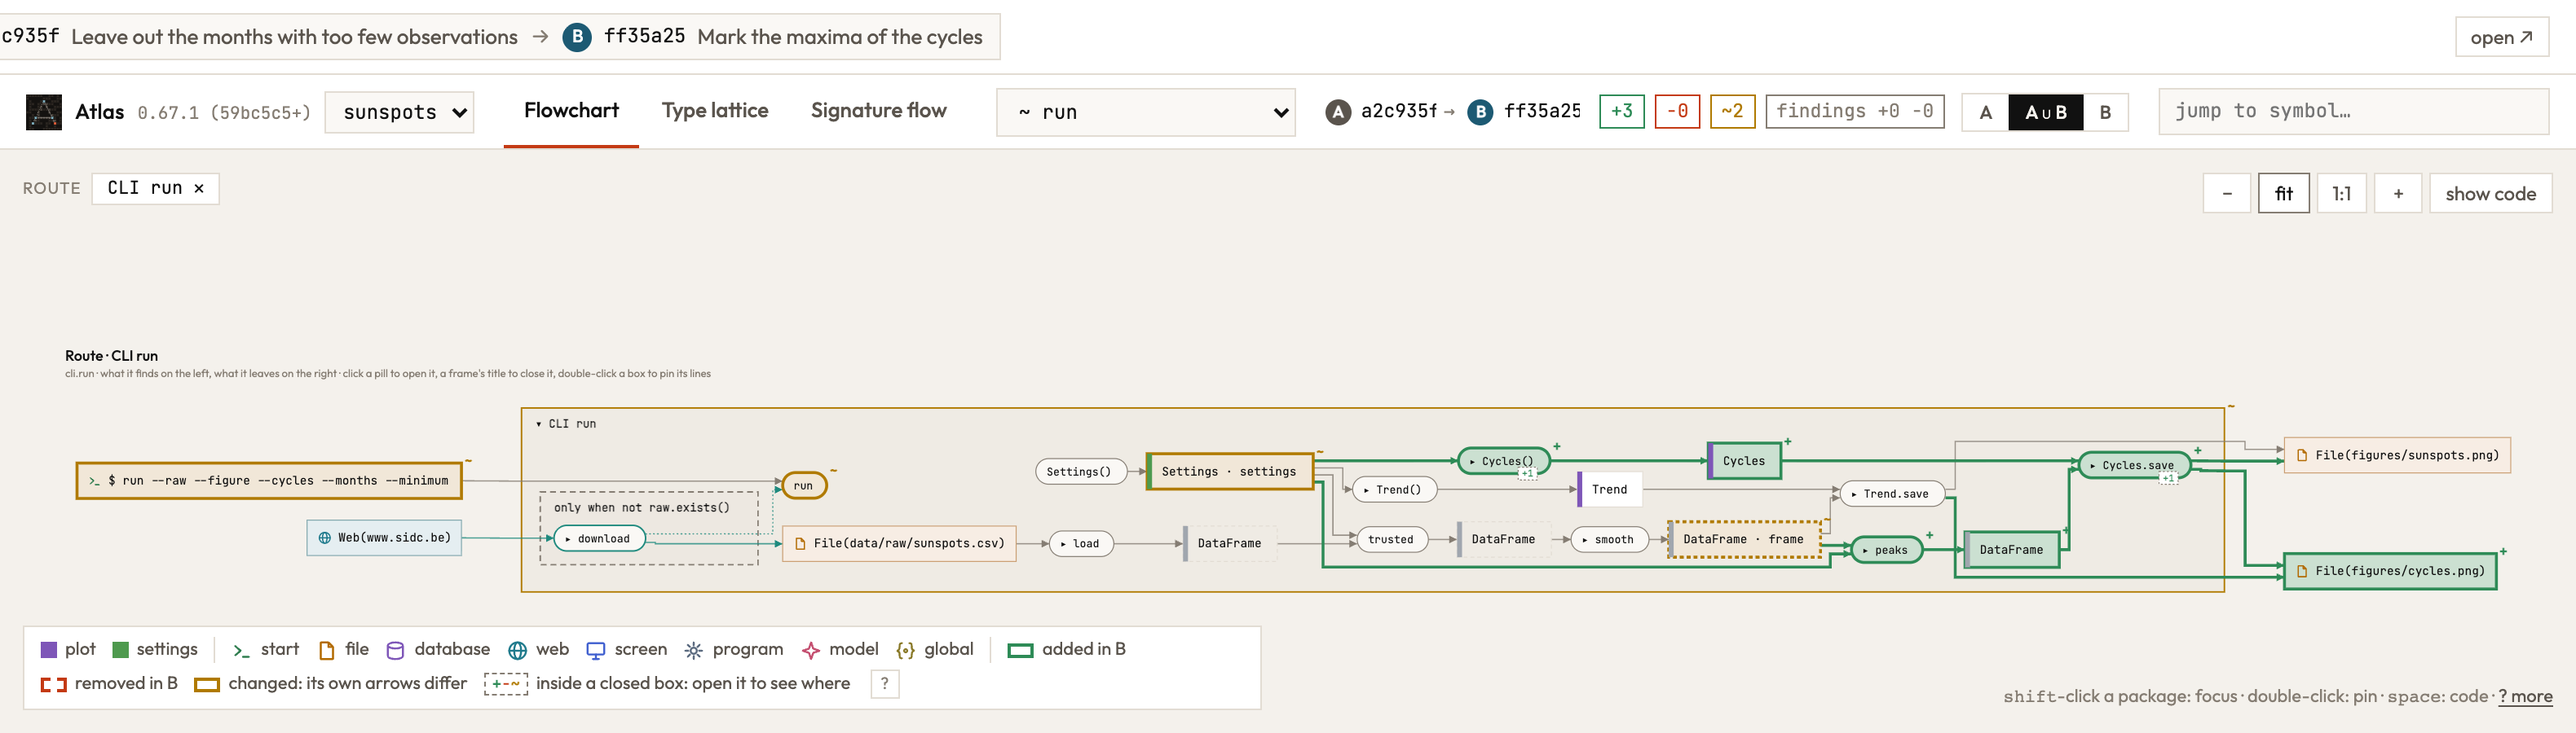
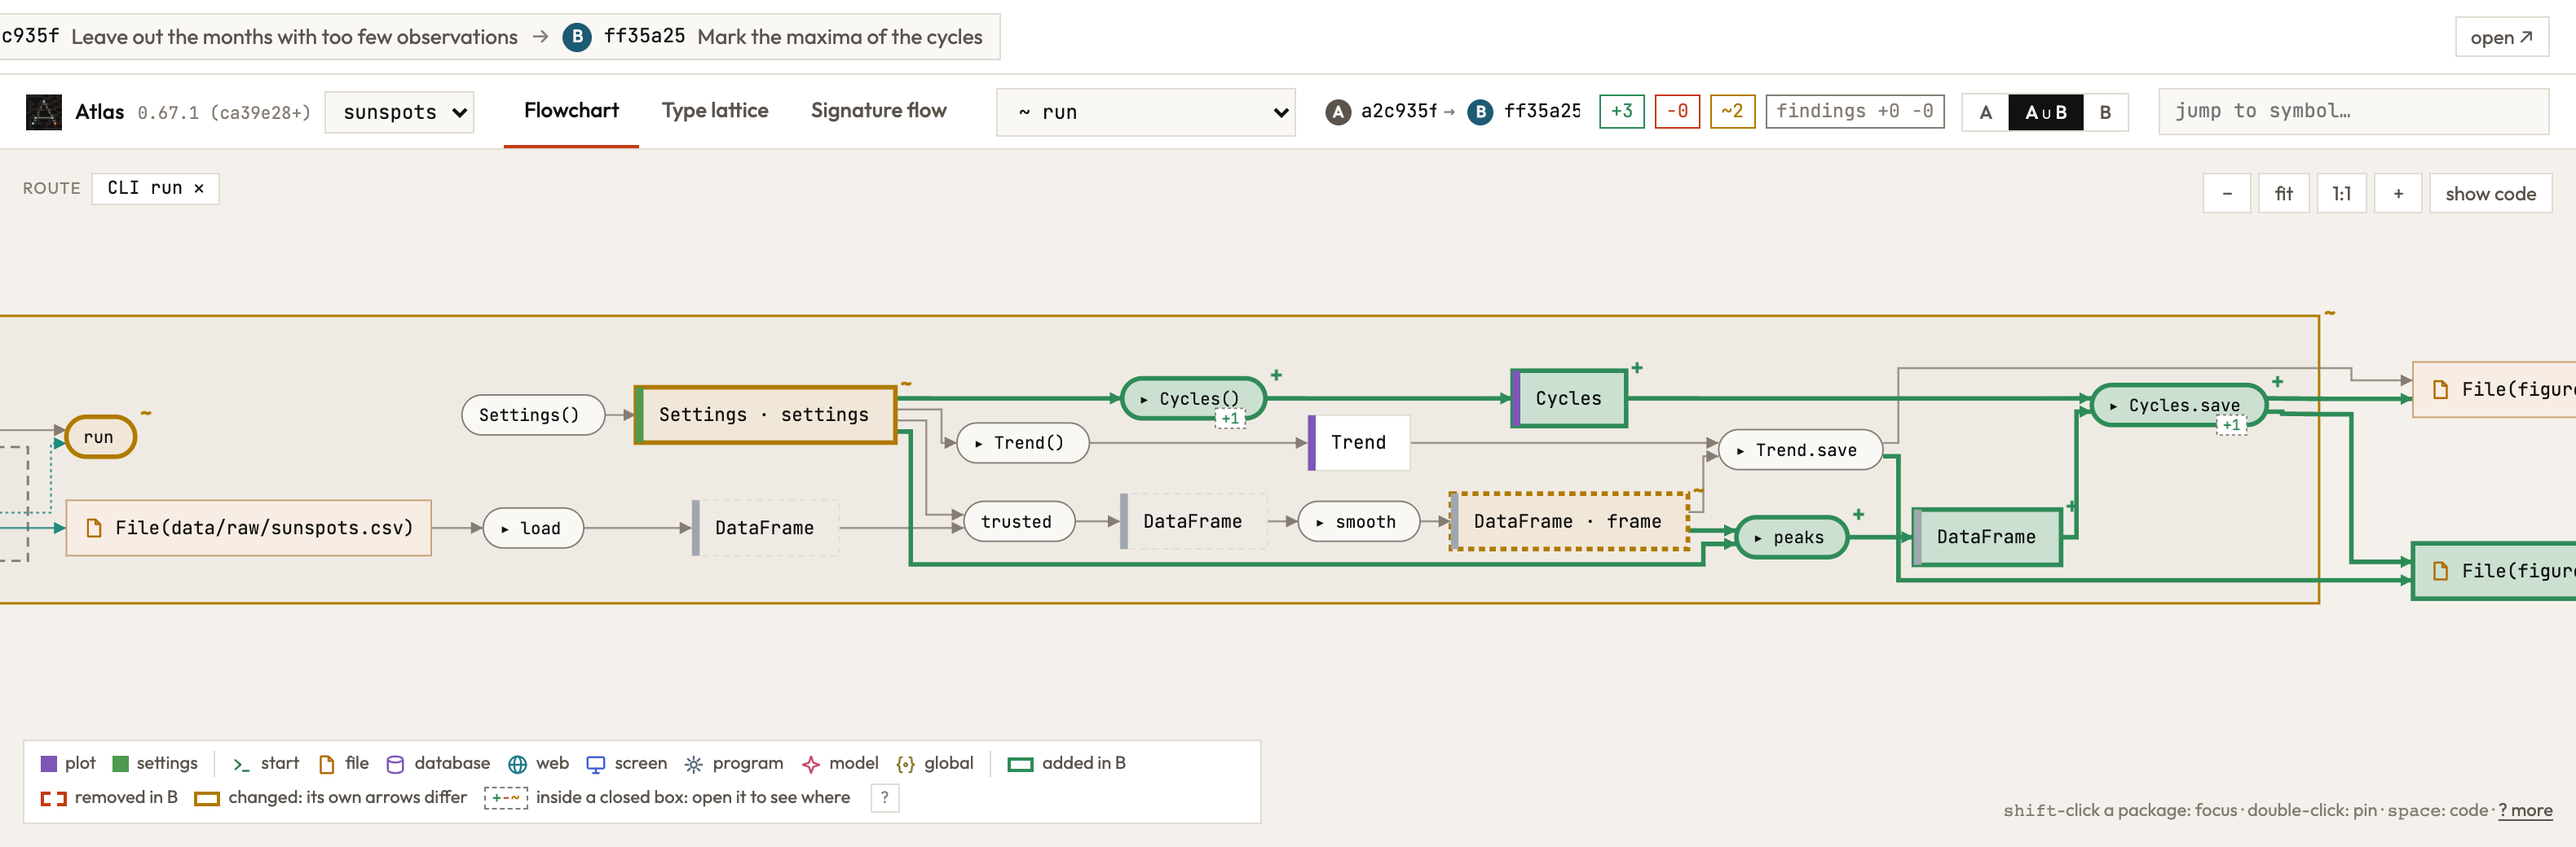
Pages: the vision is a sketch Atlas reads, the prophecy the same sketch in your files; before and after the build; only the typed picture is a demo; the history zoomed to the new path (#35)

diff --git a/docs/index.html b/docs/index.html
@@ -151,14 +151,18 @@ b.g,b.b,b.p{font-weight:600}
 .key .sw.add{border-color:var(--add);background:color-mix(in oklab,var(--add) 26%,#fff)}
 .key .sw.del{border-color:#C0361C;background:color-mix(in oklab,#C0361C 20%,#fff)}
 .key .sw.chg{border-color:#B8860B;background:color-mix(in oklab,#B8860B 18%,#fff)}
-figure.code{flex:1 1 420px;max-width:100%}
+figure a.still{pointer-events:none}
+figcaption .demo{display:flex;align-items:baseline;gap:14px;flex-wrap:wrap;justify-content:flex-end}
+figure a.try{display:inline;padding:0;font-size:14px;font-weight:500;text-decoration-color:var(--good);text-underline-offset:3px}
+figure a.try:hover{color:var(--good)}
+figure.code{flex:1 1 440px;min-width:0;max-width:100%}
 figure.code figcaption{font-size:14px;color:var(--ink-2)}
 figure.code pre{border:0;font-size:12.5px;line-height:1.6;white-space:pre;overflow-x:auto}
 figure.code pre .m{color:var(--proph);font-weight:600}
 figure.code a{display:inline;padding:0;color:inherit;text-decoration-color:var(--accent);text-underline-offset:3px}
 figure.term{background:#1d1b19;border-color:#1d1b19}
 figure.term figcaption{color:#cfc8bd;border-bottom-color:#3a3631}
-figure.term pre{background:transparent;color:#ece6dc}
+figure.term pre{background:transparent;color:#ece6dc;white-space:pre-wrap;overflow-wrap:anywhere}
 figure.term pre .m{color:#b9b0ff}
 section{margin-bottom:104px}
 @media (max-width:760px){.top nav{display:none}.hero{padding-top:36px}.chap{margin-bottom:72px}}
@@ -204,14 +208,14 @@ section{margin-bottom:104px}
   <div class="pair">
     <figure class="sloppy">
       <figcaption><b>A sloppy script</b><span class="tag">sloppy</span></figcaption>
-      <a href="showcase/python-sloppy.html"><img src="img/showcase/python-sloppy.png" style="--w:1321" alt="Atlas's picture of the sloppy script: every step reads and changes one global, Global(sunspots.df), and two of them pick their own files"></a>
+      <a class="still"><img src="img/showcase/python-sloppy.png" style="--w:1321" alt="Atlas's picture of the sloppy script: every step reads and changes one global, Global(sunspots.df), and two of them pick their own files"></a>
     </figure>
     <figure class="elegant">
-      <figcaption><b>Typed and elegant</b><span class="tag">elegant</span></figcaption>
+      <figcaption><b>Typed and elegant</b><span class="demo"><a class="try" href="showcase/python-clean.html">Open the live picture and click around &rarr;</a><span class="tag">elegant</span></span></figcaption>
       <a href="showcase/python-clean.html"><img src="img/showcase/python-clean.png" style="--w:1841" alt="Atlas's picture of the typed pipeline: download runs only when no raw CSV is kept, the CSV stands between download and load, a DataFrame passes from load to smooth to Trend.save, and the command names every file"></a>
     </figure>
   </div>
-  <p class="explain">Both reach the same places: the web, the raw CSV, the figure. Inside they part. In the sloppy script every step reads and changes one global, <code>Global(sunspots.df)</code>, and nothing is handed from step to step. In the typed one the CSV stands between <code>download</code> and <code>load</code>, a <code>DataFrame</code> goes from step to step, and the command names every file. <span class="dot"></span>A red dot is a question Atlas asks the author. Click a picture to open it in Atlas.</p>
+  <p class="explain">Both reach the same places: the web, the raw CSV, the figure. Inside they part. In the sloppy script every step reads and changes one global, <code>Global(sunspots.df)</code>, and nothing is handed from step to step. In the typed one the CSV stands between <code>download</code> and <code>load</code>, a <code>DataFrame</code> goes from step to step, and the command names every file. <span class="dot"></span>A red dot is a question Atlas asks the author. Open the typed one in Atlas and click around: it is a live picture.</p>
 </section>
 
 <section class="chap" id="languages">
@@ -289,24 +293,24 @@ section{margin-bottom:104px}
     </div>
     <div class="stage" role="tabpanel" id="st-vision" aria-labelledby="tb-vision">
       <img src="img/interaction/vision.png" style="--w:1400" alt="The vision: a new route, run-archived, drawn beside the code as it is; only the new Archive, its write step and the new route are filled green">
-      <p class="cap"><b>A sketch, nothing written.</b> Only what the code would add is green: the <code>Archive</code>, its <code>write</code> step and the new route. What it reuses stays plain.</p>
+      <p class="cap"><b>A sketch, nothing written in your files.</b> Atlas reads the sketch as it reads code, so the picture is drawn with real types; it lives in the agent's request and is gone when it is decided or retracted. Only what the code would add is green: the <code>Archive</code>, its <code>write</code> step and the new route. What it reuses stays plain.</p>
       <div class="cols">
-        <figure class="code"><figcaption>What the agent sketched: signatures and calls in order, bodies empty</figcaption><pre id="sketch"></pre></figure>
+        <figure class="code"><figcaption>What the agent handed Atlas: signatures and calls in order, bodies empty. It has to parse, not to build.</figcaption><pre id="sketch"></pre></figure>
       </div>
     </div>
     <div class="stage" role="tabpanel" id="st-prophecy" aria-labelledby="tb-prophecy">
       <img src="img/interaction/prophecy.png" style="--w:1400" alt="The decided design drawn as a prophecy: the new route and the Archive in a dotted purple outline beside the built code">
-      <p class="cap"><b>Decided: the sketch is in your code, marked.</b> Atlas reads it as code, with real types, and draws it <span class="p">dotted purple</span>. <code>supersedes</code> says what the new route replaces; <code>sealed</code> ties a piece to a GitHub issue it waits on.</p>
+      <p class="cap"><b>Decided: the same sketch, now written in your files.</b> The one thing that is new is the marker, the <span class="p">purple line</span>: it says the code is not built yet, so Atlas draws it dotted and does not ask about its empty bodies. <code>supersedes</code> says what the new route replaces; <code>sealed</code> ties a piece to a GitHub issue it waits on.</p>
       <div class="cols">
-        <figure class="code"><figcaption>In your code: the marker is the purple line</figcaption><pre id="snippet"></pre></figure>
-        <figure class="code term"><figcaption>What is left to build, as Atlas lists it</figcaption><pre id="rev-decided"></pre></figure>
+        <figure class="code"><figcaption>In your code</figcaption><pre id="snippet"></pre></figure>
       </div>
     </div>
     <div class="stage" role="tabpanel" id="st-built" aria-labelledby="tb-built">
       <img src="img/interaction/built.png" style="--w:1400" alt="The same route, built: the boxes are solid">
-      <p class="cap"><b>Built.</b> The bodies are written and the markers are gone: the same route, solid. The list shrinks to what still waits.</p>
+      <p class="cap"><b>Built.</b> The bodies are written and the markers are gone: the same route, solid. Ask Atlas what is left, before and after:</p>
       <div class="cols">
-        <figure class="code term"><figcaption>What is left to build, now</figcaption><pre id="rev-built"></pre></figure>
+        <figure class="code term"><figcaption>When it was decided</figcaption><pre id="rev-decided"></pre></figure>
+        <figure class="code term"><figcaption>Now it is built</figcaption><pre id="rev-built"></pre></figure>
       </div>
     </div>
   </div>

diff --git a/docs/img/interaction/data.js b/docs/img/interaction/data.js
@@ -14,7 +14,7 @@ window.TOUR = {
  "texts": {
   "look": "The page of `atlas serve` goes there when it next asks, within a second while it is open.",
   "shown": "View: {\"route\":\"sunspots.cli.run\"}\nSelected: sunspots.series.trusted\n23 boxes:\n  Settings() (sunspots.settings.Settings)\n  download (sunspots.download.download)\n  load (sunspots.series.load)\n  trusted (sunspots.series.trusted)\n  smooth (sunspots.series.smooth)\n  Trend() (sunspots.plot.Trend)\n  Trend.save (sunspots.plot.Plot.save)\n  Cycles() (sunspots.plot.Cycles)\n  peaks (sunspots.series.peaks)\n  Cycles.save (sunspots.plot.Plot.save)\n  run (sunspots.cli.run)\n  $ run --raw --figure --cycles --months --minimum (e:sunspots.cli.run)\n  Web(www.sidc.be) (w:Web:www.sidc.be)\n  File(data/raw/sunspots.csv) (w:File:data/raw/sunspots.csv)\n  File(figures/cycles.png) (w:File:figures/cycles.png)\n  File(figures/sunspots.png) (w:File:figures/sunspots.png)\n  Settings \u00b7 settings (t:sunspots.settings.Settings@n:sunspots.cli.run/0)\n  DataFrame (t:ext:pandas.DataFrame@n:sunspots.cli.run/2)\n  DataFrame (t:ext:pandas.DataFrame@n:sunspots.cli.run/3)\n  DataFrame \u00b7 frame (t:ext:pandas.DataFrame@n:sunspots.cli.run/4)\n  Trend (t:sunspots.plot.Trend@n:sunspots.cli.run/5)\n  Cycles (t:sunspots.plot.Cycles@n:sunspots.cli.run/7)\n  DataFrame (t:ext:pandas.DataFrame@n:sunspots.cli.run/8)\n27 lines:\n  Settings() \u2192 Settings \u00b7 settings (data) [n:sunspots.cli.run/0>t:sunspots.settings.Settings@n:sunspots.cli.run/0]\n  Web(www.sidc.be) \u2192 download (data) [w:Web:www.sidc.be>n:sunspots.cli.run/1]\n  download \u2192 File(data/raw/sunspots.csv) (data) [n:sunspots.cli.run/1>w:File:data/raw/sunspots.csv]\n  download \u2192 run (hands back) [n:sunspots.cli.run/1>o:sunspots.cli.run]\n  File(data/raw/sunspots.csv) \u2192 load (data) [w:File:data/raw/sunspots.csv>n:sunspots.cli.run/2]\n  load \u2192 DataFrame (data) [n:sunspots.cli.run/2>t:ext:pandas.DataFrame@n:sunspots.cli.run/2]\n  Settings \u00b7 settings \u2192 trusted (data) [t:sunspots.settings.Settings@n:sunspots.cli.run/0>n:sunspots.cli.run/3]\n  DataFrame \u2192 trusted (data) [t:ext:pandas.DataFrame@n:sunspots.cli.run/2>n:sunspots.cli.run/3]\n  trusted \u2192 DataFrame (data) [n:sunspots.cli.run/3>t:ext:pandas.DataFrame@n:sunspots.cli.run/3]\n  DataFrame \u2192 smooth (data) [t:ext:pandas.DataFrame@n:sunspots.cli.run/3>n:sunspots.cli.run/4]\n  smooth \u2192 DataFrame \u00b7 frame (data) [n:sunspots.cli.run/4>t:ext:pandas.DataFrame@n:sunspots.cli.run/4]\n  Settings \u00b7 settings \u2192 Trend() (data) [t:sunspots.settings.Settings@n:sunspots.cli.run/0>n:sunspots.cli.run/5]\n  Trend() \u2192 Trend (data) [n:sunspots.cli.run/5>t:sunspots.plot.Trend@n:sunspots.cli.run/5]\n  DataFrame \u00b7 frame \u2192 Trend.save (data) [t:ext:pandas.DataFrame@n:sunspots.cli.run/4>n:sunspots.cli.run/6]\n  Trend \u2192 Trend.save (data) [t:sunspots.plot.Trend@n:sunspots.cli.run/5>n:sunspots.cli.run/6]\n  Trend.save \u2192 File(figures/cycles.png) (data) [n:sunspots.cli.run/6>w:File:figures/cycles.png]\n  Trend.save \u2192 File(figures/sunspots.png) (data) [n:sunspots.cli.run/6>w:File:figures/sunspots.png]\n  Settings \u00b7 settings \u2192 Cycles() (data) [t:sunspots.settings.Settings@n:sunspots.cli.run/0>n:sunspots.cli.run/7]\n  Cycles() \u2192 Cycles (data) [n:sunspots.cli.run/7>t:sunspots.plot.Cycles@n:sunspots.cli.run/7]\n  DataFrame \u00b7 frame \u2192 peaks (data) [t:ext:pandas.DataFrame@n:sunspots.cli.run/4>n:sunspots.cli.run/8]\n  Settings \u00b7 settings \u2192 peaks (data) [t:sunspots.settings.Settings@n:sunspots.cli.run/0>n:sunspots.cli.run/8]\n  peaks \u2192 DataFrame (data) [n:sunspots.cli.run/8>t:ext:pandas.DataFrame@n:sunspots.cli.run/8]\n  Cycles \u2192 Cycles.save (data) [t:sunspots.plot.Cycles@n:sunspots.cli.run/7>n:sunspots.cli.run/9]\n  DataFrame \u2192 Cycles.save (data) [t:ext:pandas.DataFrame@n:sunspots.cli.run/8>n:sunspots.cli.run/9]\n  Cycles.save \u2192 File(figures/cycles.png) (data) [n:sunspots.cli.run/9>w:File:figures/cycles.png]\n  Cycles.save \u2192 File(figures/sunspots.png) (data) [n:sunspots.cli.run/9>w:File:figures/sunspots.png]\n  $ run --raw --figure --cycles --months --minimum \u2192 run (data) [e:sunspots.cli.run>o:sunspots.cli.run]",
-  "notes": "Note 1 on trusted (sunspots.series.trusted), written at ff35a25 in the view {\"route\":\"sunspots.cli.run\"}:\n  Why a minimum of 1? What happens to the months with no observations?\n  Its place: http://127.0.0.1:57586/#v=%7B%22route%22%3A%22sunspots.cli.run%22%7D&at=sunspots.series.trusted",
+  "notes": "Note 1 on trusted (sunspots.series.trusted), written at ff35a25 in the view {\"route\":\"sunspots.cli.run\"}:\n  Why a minimum of 1? What happens to the months with no observations?\n  Its place: http://127.0.0.1:58323/#v=%7B%22route%22%3A%22sunspots.cli.run%22%7D&at=sunspots.series.trusted",
   "resolve": "Note 1 on trusted is resolved; the page marks it so while it is served. Tell the person you work with what you did.",
   "annotate": "The page of `atlas serve` shows 1 annotation within a few seconds.",
   "vision": "Envisioned: Keep the smoothed months in a file. The page of `atlas serve` draws it beside the working tree within a second; `look` points at what you mean.\n\nworking tree..vision\n\n+ CLI \u00b7 run-archived\n    + place reads data/raw/sunspots.csv\n    + place writes figures/sunspots.png\n\nfindings raised\n  nothing \u00b7 src/sunspots/series.py:43  Archive.write gives nothing back, and Atlas sees no change and no place it reaches\n",

diff --git a/docs/interaction.html b/docs/interaction.html
@@ -151,6 +151,10 @@ b.g,b.b,b.p{font-weight:600}
 .key .sw.add{border-color:var(--add);background:color-mix(in oklab,var(--add) 26%,#fff)}
 .key .sw.del{border-color:#C0361C;background:color-mix(in oklab,#C0361C 20%,#fff)}
 .key .sw.chg{border-color:#B8860B;background:color-mix(in oklab,#B8860B 18%,#fff)}
+figure a.still{pointer-events:none}
+figcaption .demo{display:flex;align-items:baseline;gap:14px;flex-wrap:wrap;justify-content:flex-end}
+figure a.try{display:inline;padding:0;font-size:14px;font-weight:500;text-decoration-color:var(--good);text-underline-offset:3px}
+figure a.try:hover{color:var(--good)}
 figure.code{flex:1 1 420px;max-width:100%}
 figure.code figcaption{font-size:14px;color:var(--ink-2)}
 figure.code pre{border:0;font-size:12.5px;line-height:1.6;white-space:pre;overflow-x:auto}
@@ -237,7 +241,7 @@ Selected: sunspots.series.trusted
     <figcaption><b>notes</b><span class="tag">what the tool answered</span></figcaption>
     <pre>Note 1 on trusted (sunspots.series.trusted), written at ff35a25 in the view {&quot;route&quot;:&quot;sunspots.cli.run&quot;}:
   Why a minimum of 1? What happens to the months with no observations?
-  Its place: http://127.0.0.1:57586/#v=%7B%22route%22%3A%22sunspots.cli.run%22%7D&amp;at=sunspots.series.trusted</pre>
+  Its place: http://127.0.0.1:58323/#v=%7B%22route%22%3A%22sunspots.cli.run%22%7D&amp;at=sunspots.series.trusted</pre>
   </figure>
   <figure>
     <figcaption><b>The agent answered on the box, and the note is resolved</b><span class="tag">✓ ✦</span></figcaption>

diff --git a/tools/interaction_pictures.py b/tools/interaction_pictures.py
@@ -505,7 +505,7 @@ def main(atlas, out=None):
         # history: six commits; the fifth against the sixth, as one picture
         page.goto(server.url('/history'), wait_until='networkidle')
         settle(page, 2000)
-        page.set_viewport_size({'width': 2000, 'height': 450})
+        page.set_viewport_size({'width': 2000, 'height': 520})
         page.get_by_text('Leave out the months with too few').first.click()
         page.get_by_text('Mark the maxima of the cycles').first.click(modifiers=['Shift'])
         settle(page, 4000)
@@ -520,8 +520,17 @@ def main(atlas, out=None):
         page.screenshot(path=str(out / 'history-list.png'), clip={'x': 0, 'y': 50, 'width': 420, 'height': 330})
         view.get_by_role('button', name='fit', exact=True).click()
         page.wait_for_timeout(900)
+        # in on the new path, so that its text reads
+        for _ in range(2):
+            view.get_by_role('button', name='+', exact=True).click()
+            page.wait_for_timeout(400)
+        page.mouse.move(1500, 230)
+        page.mouse.down()
+        page.mouse.move(1235, 150, steps=12)
+        page.mouse.up()
+        page.wait_for_timeout(900)
         print('shot history', file=sys.stderr, flush=True)
-        page.screenshot(path=str(out / 'history.png'), clip={'x': 420, 'y': 0, 'width': 1580, 'height': 450})
+        page.screenshot(path=str(out / 'history.png'), clip={'x': 420, 'y': 0, 'width': 1580, 'height': 520})
         tour['commits'] = list(shas)
 
         # today: the route as it stands, before anyone points at anything
